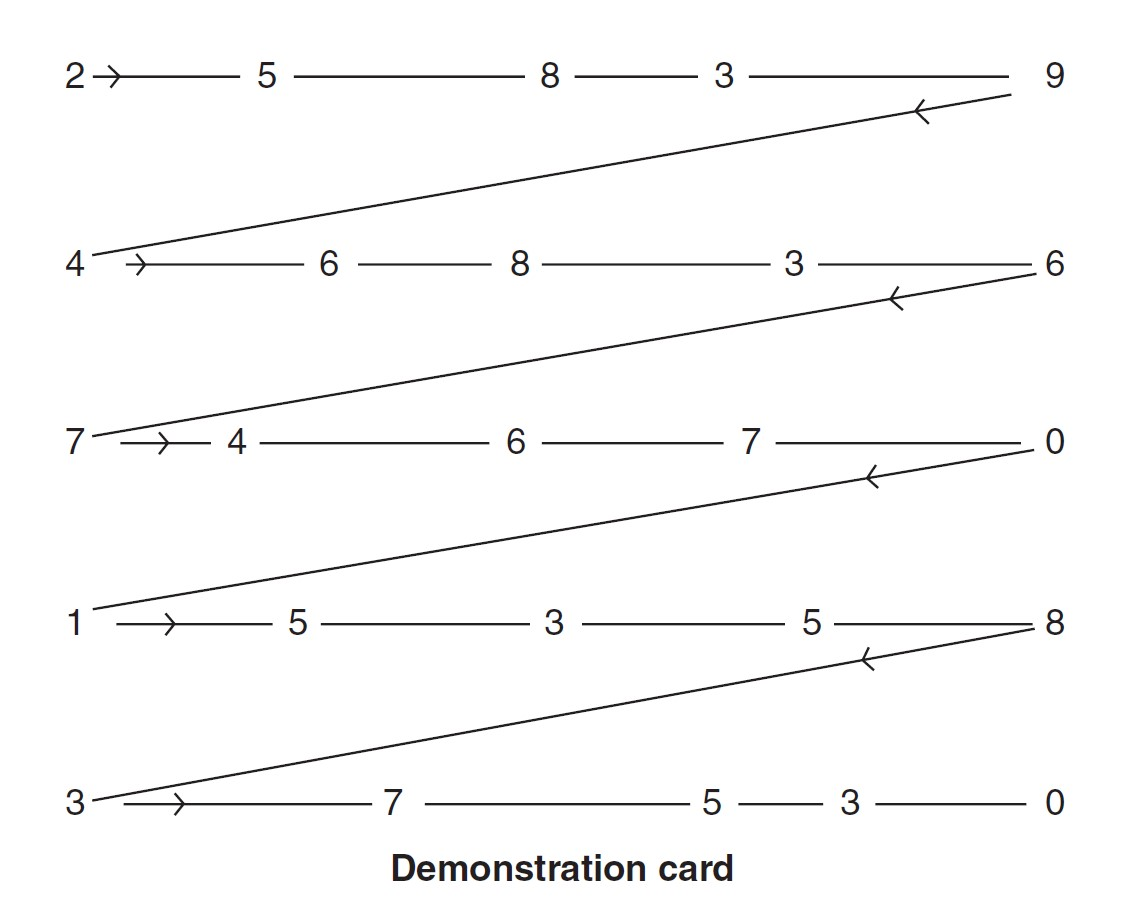
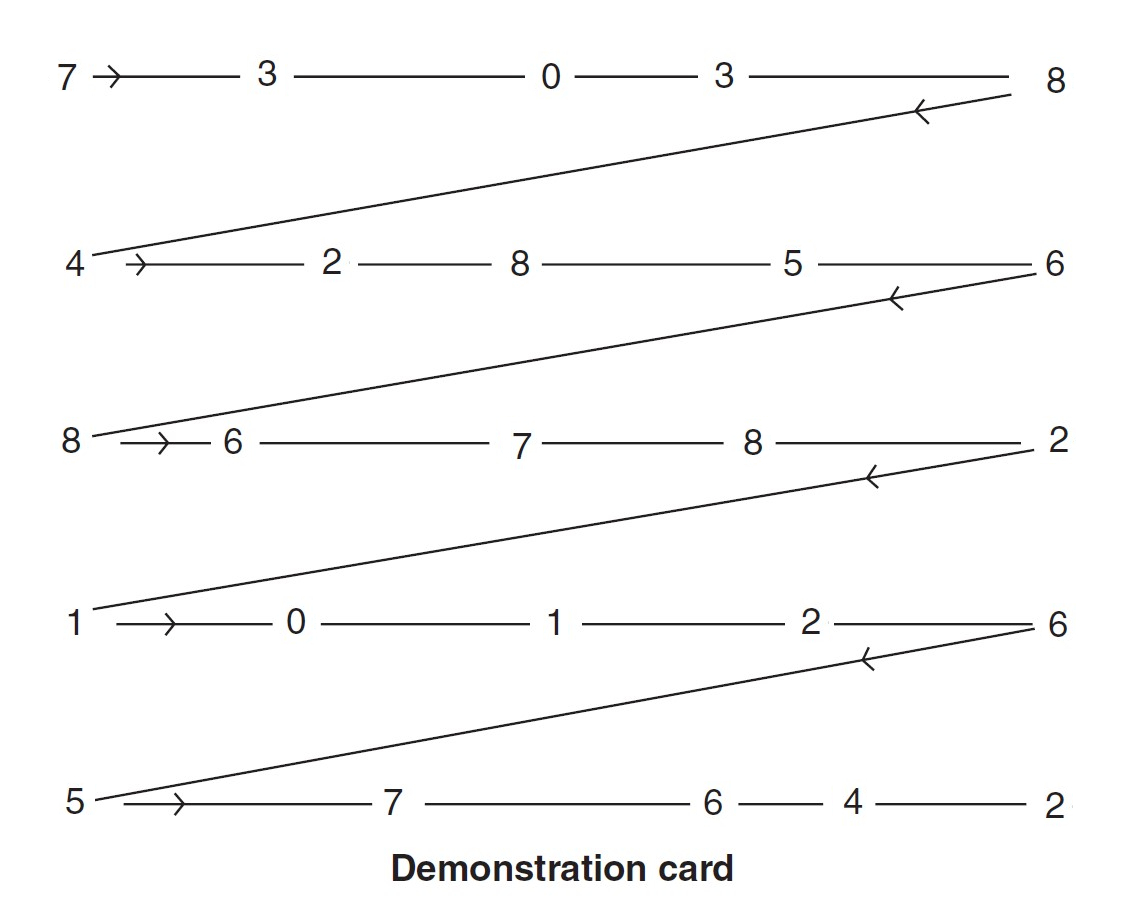
Added card_0 to King Devick task

diff --git a/king_devick/king_devick_lastrun.py b/king_devick/king_devick_lastrun.py
@@ -2,7 +2,7 @@
 # -*- coding: utf-8 -*-
 """
 This experiment was created using PsychoPy3 Experiment Builder (v2021.2.3),
-    on July 05, 2022, at 12:04
+    on October 25, 2022, at 16:16
 If you publish work using this script the most relevant publication is:
 
     Peirce J, Gray JR, Simpson S, MacAskill M, Höchenberger R, Sogo H, Kastman E, Lindeløv JK. (2019) 
@@ -63,7 +63,7 @@ filename = _thisDir + os.sep + u'data/%s_%s_%s' % (expInfo['participant'], expNa
 # An ExperimentHandler isn't essential but helps with data saving
 thisExp = data.ExperimentHandler(name=expName, version='',
     extraInfo=expInfo, runtimeInfo=None,
-    originPath='C:\\Users\\zackg\\OneDrive\\Ayaz Lab\\KernelFlow_PsychoPy\\king_devick\\king_devick_lastrun.py',
+    originPath='C:\\Users\\Sim\\Desktop\\KernelFlow_PsychoPy\\king_devick\\king_devick_lastrun.py',
     savePickle=True, saveWideText=True,
     dataFileName=filename)
 # save a log file for detail verbose info
@@ -158,9 +158,9 @@ instructions_resp = keyboard.Keyboard()
 # Initialize components for Routine "demo_card_instructions"
 demo_card_instructionsClock = core.Clock()
 demo_instructions_text = visual.TextStim(win=win, name='demo_instructions_text',
-    text='This is the practice card. \n\nRead the lines of numbers from left to right as quickly as you can without making mistakes. If you do make a mistake, please continue reading the numbers. \n\nPress SPACE to begin. Press SPACE again as soon as you finish reading all numbers.',
+    text='This is the practice card. \n\nRead the numbers row by row from left to right as quickly as you can without making mistakes. If you do make a mistake, please continue reading the numbers. \n\nYour goal is to complete this task as quickly as possible.\n\nPress SPACE to begin. Press SPACE again as soon as you finish reading all numbers.',
     font='Open Sans',
-    pos=(0, 0), height=0.06, wrapWidth=None, ori=0.0, 
+    pos=(0, 0), height=0.05, wrapWidth=None, ori=0.0, 
     color='white', colorSpace='rgb', opacity=None, 
     languageStyle='LTR',
     depth=0.0);
@@ -184,9 +184,9 @@ loop_codeClock = core.Clock()
 # Initialize components for Routine "card_instructions"
 card_instructionsClock = core.Clock()
 card_instructions_text = visual.TextStim(win=win, name='card_instructions_text',
-    text='This is a task card.\n\nRead the lines of numbers from left to right as quickly as you can without making mistakes. If you do make a mistake, please continue reading the numbers.\n\nPress SPACE to begin. Press SPACE again as soon as you finish reading all numbers.',
+    text='This is a task card. \n\nRead the numbers row by row from left to right as quickly as you can without making mistakes. If you do make a mistake, please continue reading the numbers. \n\nYour goal is to complete this task as quickly as possible.\n\nPress SPACE to begin. Press SPACE again as soon as you finish reading all numbers.',
     font='Open Sans',
-    pos=(0, 0), height=0.06, wrapWidth=None, ori=0.0, 
+    pos=(0, 0), height=0.05, wrapWidth=None, ori=0.0, 
     color='white', colorSpace='rgb', opacity=None, 
     languageStyle='LTR',
     depth=0.0);
